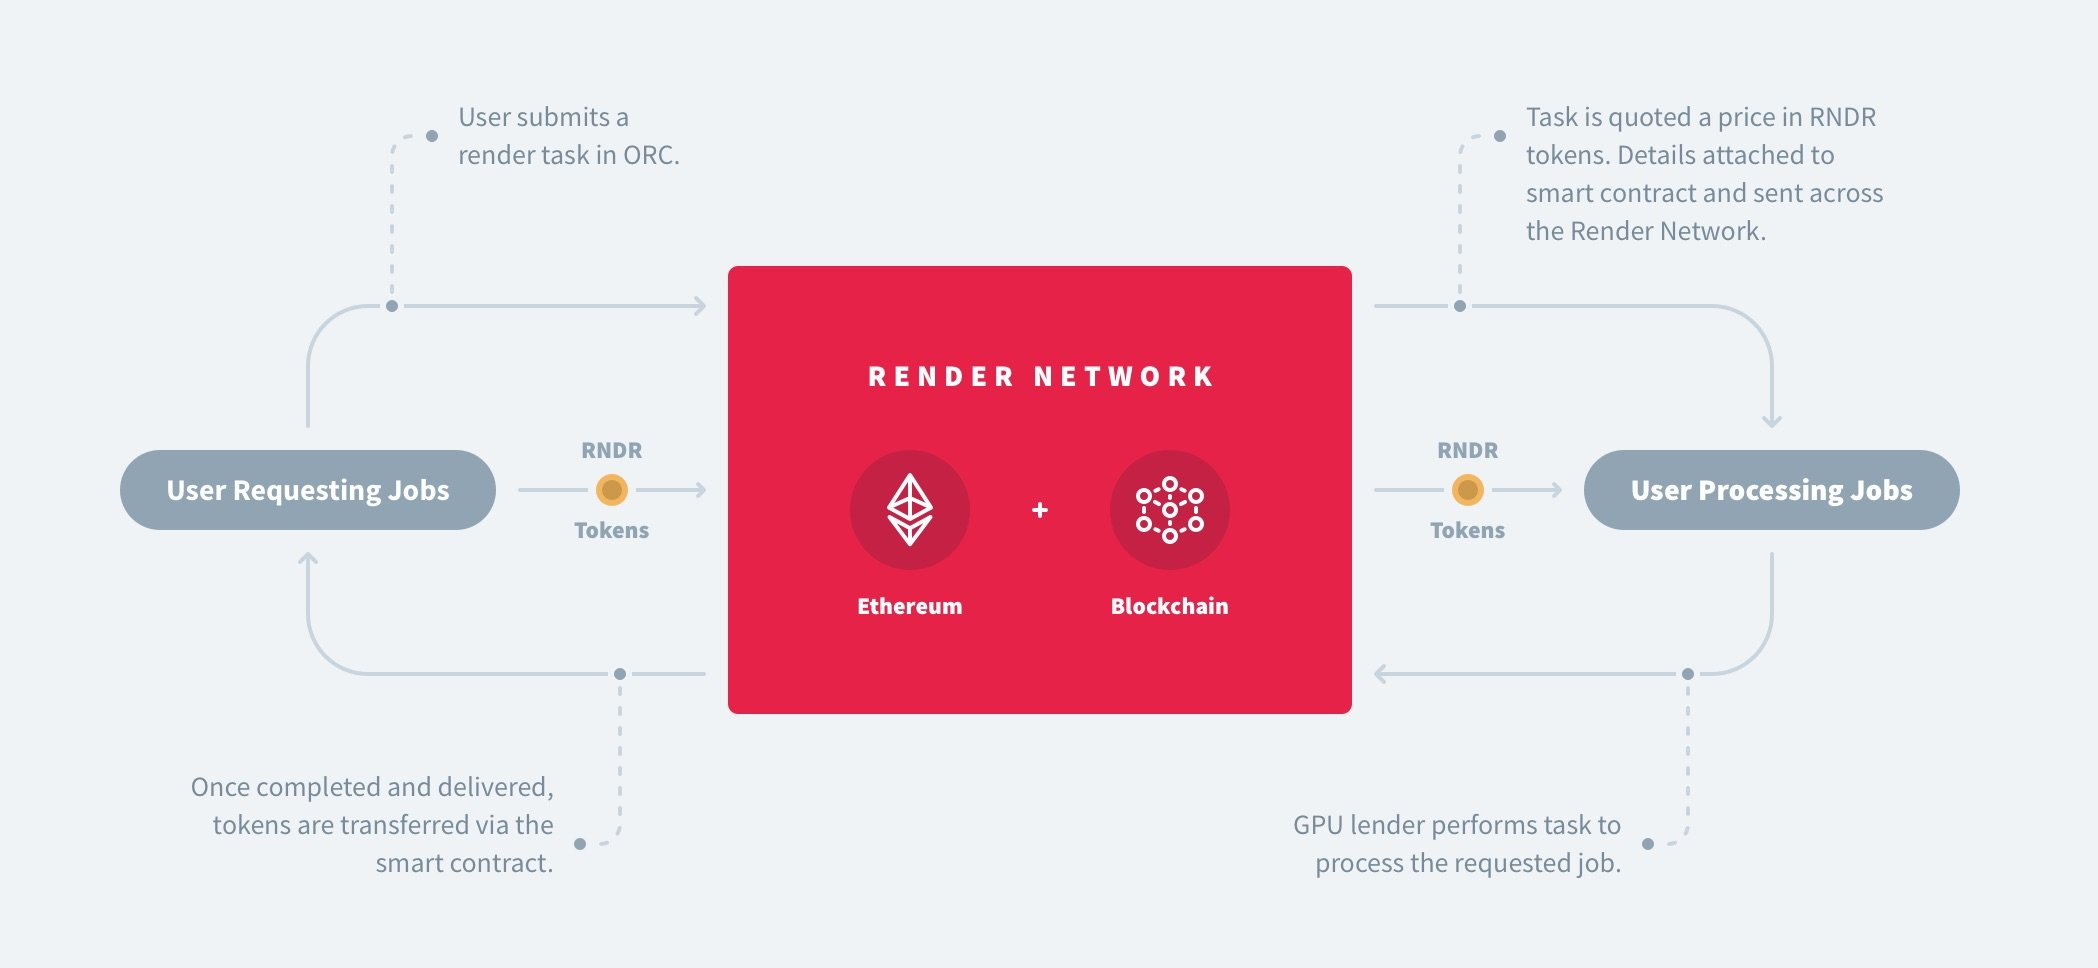
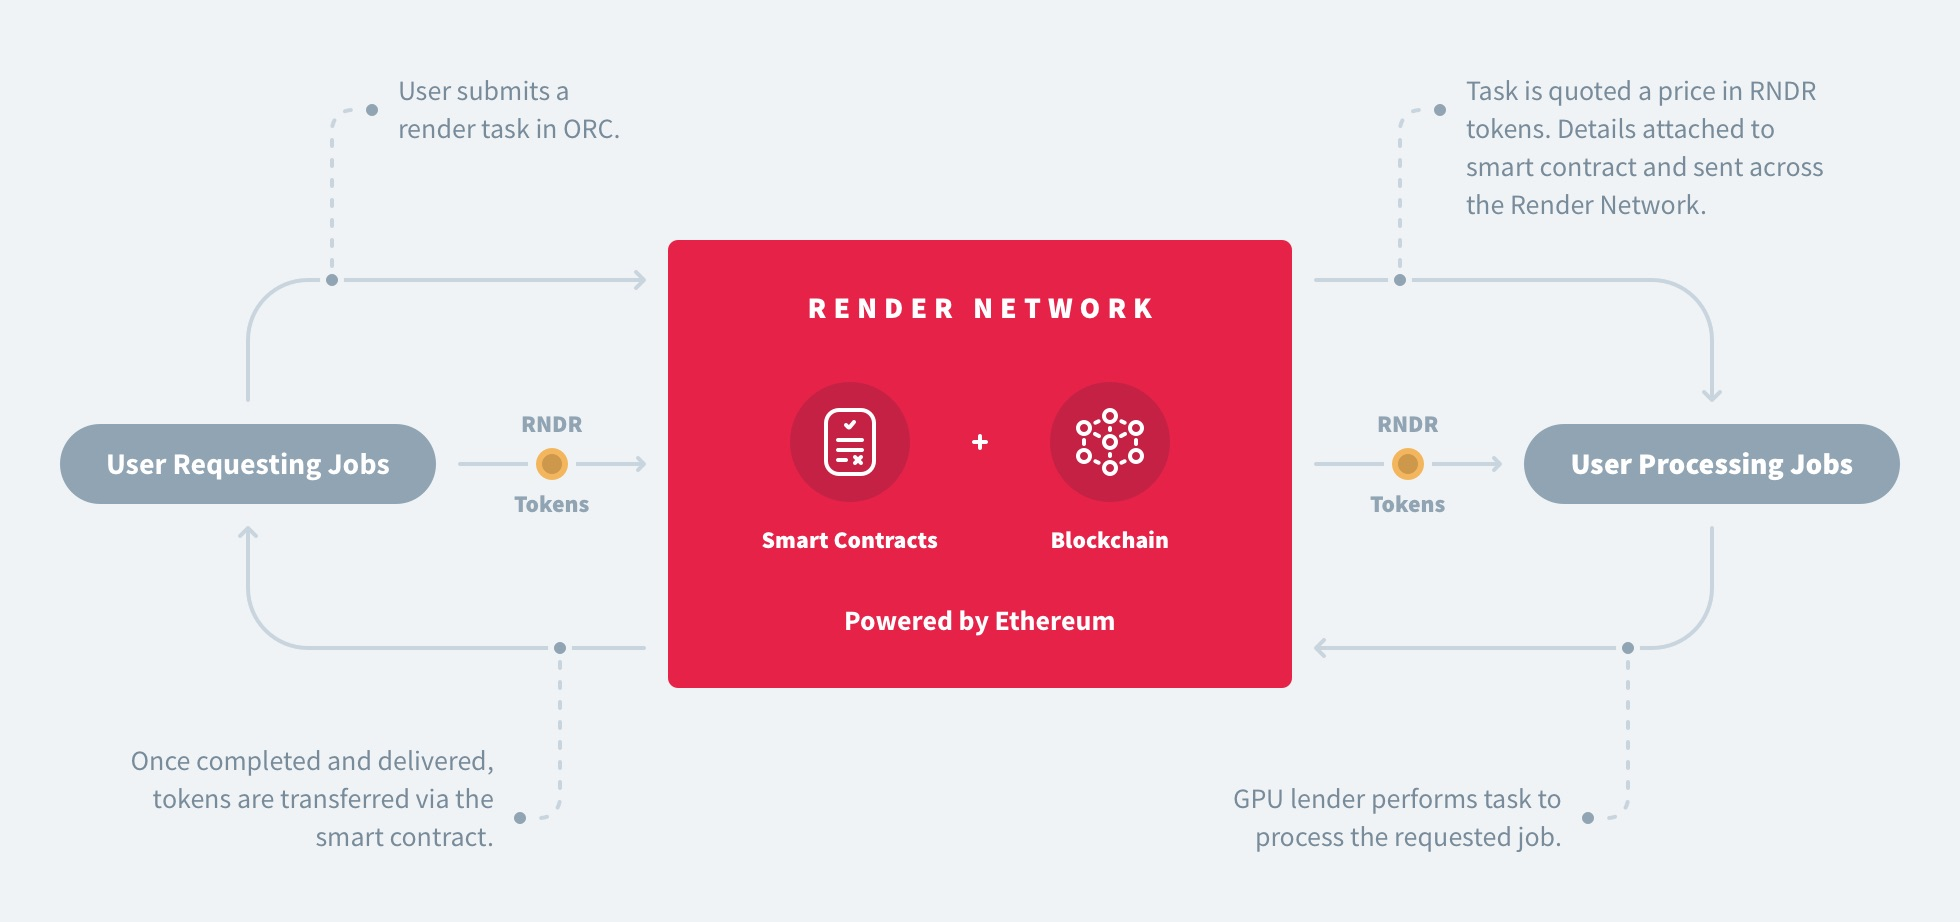
new infographic

diff --git a/src/assets/js/home/animations.js b/src/assets/js/home/animations.js
@@ -27,7 +27,6 @@ const animations = () => {
   })
   animeDraw({
     query: `.${home.how.infographic} .ethereum`,
-    svgQuery: 'polygon'
   })
 }
 
